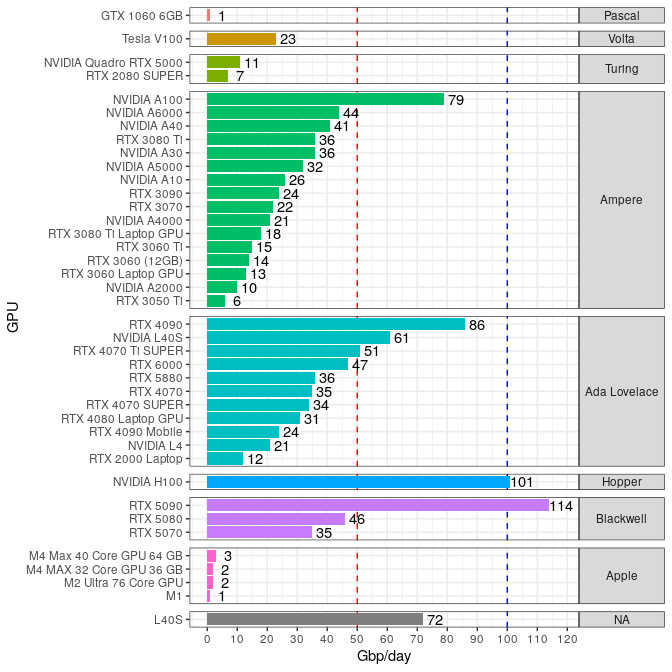
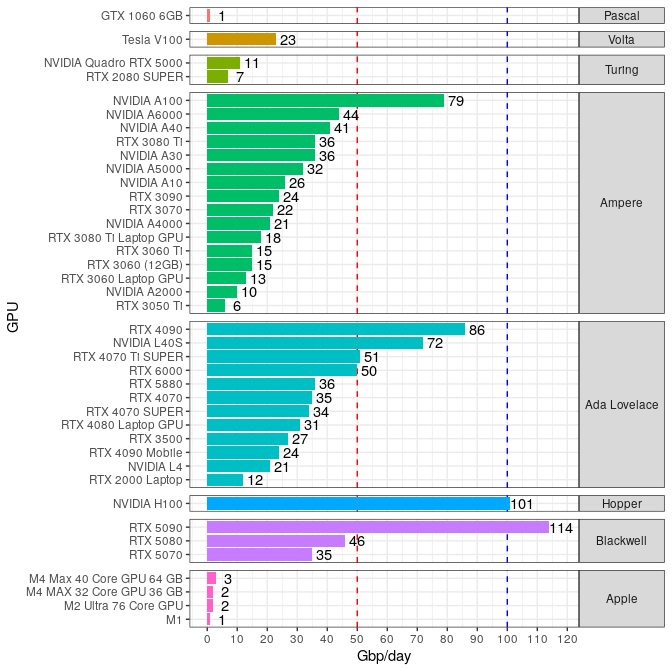
added a few extra GPUs

diff --git a/README.md b/README.md
@@ -1,7 +1,7 @@
 README
 ================
 Rasmus Kirkegaard
-08 June, 2025
+10 June, 2025
 
 ## Aim
 
